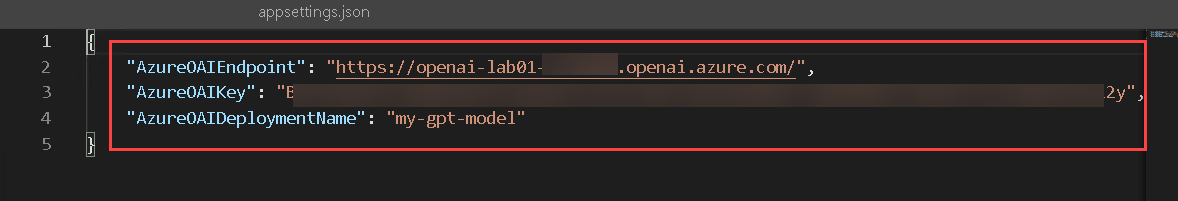
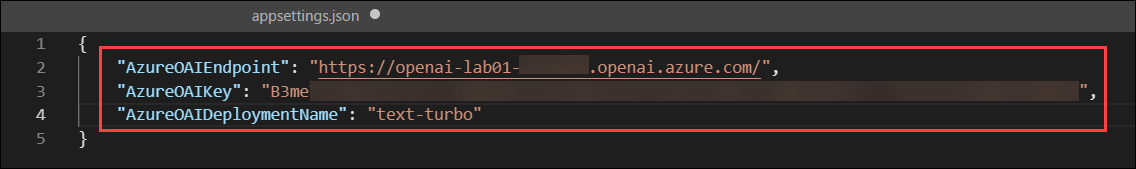
Updates

Changed region(s): [[0.0, 0.0, 1.0, 0.7988], [0.0, 0.9763, 1.0, 1.0], [0.0308, 0.7988, 0.0616, 0.8284]]

diff --git a/Instructions/Labs/guided-lab-02.md b/Instructions/Labs/guided-lab-02.md
@@ -26,11 +26,11 @@ In this task, you'll create an Azure resource in the Azure portal, selecting the
 
    ![](../media/azureai.png)
 
-2. On  **AI Foundary | Azure OpenAI** blade, select **Azure OpenAI(1)** from the left menu, click on **+ Create(2)** and select **Azure OpenAI(3)**
+1. On  **Microsoft Foundary | Azure OpenAI** blade, select **Azure OpenAI (1)** from the left menu, click on **+ Create (2)** and select **Azure OpenAI (3)**
 
    ![](../media/va1.png)
 
-3. Create an **Azure OpenAI** resource using the settings below, then click **Next (6)** three times, leaving all other options at their defaults.
+1. Create an **Azure OpenAI** resource using the settings below, then click **Next (6)** three times, leaving all other options at their defaults.
     
     - Subscription: **Default Subscription (1)**
     
@@ -41,16 +41,30 @@ In this task, you'll create an Azure resource in the Azure portal, selecting the
     - Name: **OpenAI-Lab01-<inject key="DeploymentID" enableCopy="false"></inject> (4)**
     
     - Pricing tier: **Standard S0 (5)**
+
+    - Click **Next** thrice to navigate to the **Review + submit** tab.
   
       ![](../media/clicknext.png)
 
-4. Under the **Review + submit** tab, click on **Create**.
+1. Under the **Review + submit** tab, click on **Create**.
 
       ![](../media/clickcreate.png)
 
-5. Wait for deployment to complete. Click on **Go to resource** to navigate to the deployed Azure OpenAI resource in the Azure portal.
+1. Wait for deployment to complete. Click on **Go to resource** to navigate to the deployed Azure OpenAI resource in the Azure portal.
 
       ![](../media/e1t1p5.png)
+
+1. To capture the Keys and Endpoints values, on **OpenAI-Lab01-<inject key="DeploymentID" enableCopy="false"></inject>** blade:
+
+    - Navigate to **Keys and Endpoint (2)** under **Resource Management (1)**.
+    
+    - Click on **Show Keys (3)**.
+    
+    - Copy **Key 1 (4)** and ensure to paste it in a text editor such as notepad for future reference.
+    
+    - Finally copy the **Endpoint (5)** API URL by clicking on copy to clipboard. Paste it in a text editor such as notepad for later use.
+    
+        ![](../media/e1t1p5a.png "Keys and Endpoints")
 
 <validation step="b6d08e8e-f2a3-4066-a698-2a324f4493dd" />
 
@@ -63,47 +77,41 @@ In this task, you'll create an Azure resource in the Azure portal, selecting the
 
 In this task, you'll deploy a specific AI model instance within your Azure OpenAI resource to integrate advanced language capabilities into your applications.
 
-1. In the Azure OpenAI resource pane, click on **Foundry portal**, which will navigate to **Microsoft Foundry**.
+1. In the Azure OpenAI resource pane, click on **Go to Foundry portal**, which will navigate to **Microsoft Foundry**.
 
     ![](../media/va2.png)
 
-1. Select the **Deployments (1)** from the left pane, click on **+ Deploy model (2)** and choose **Deploy base model (3)**.
+1. Select the **Deployments (1)** from the left pane under **Shared resources**, click on **+ Deploy model (2)** and choose **Deploy base model (3)**.
 
     ![](../media/va3.png)
 
 1. Search for **gpt-4.1-mini (1)** in the search bar, select **gpt-4.1-mini (2)** and click on **Confirm (3)**.
 
-   ![](../media/va4.png) 
+   ![](../media/va4.png)
 
-   >**Note:** If pop-up window **Unlock the full capabilities of Azure Microsoft Foundry with projects** appears, click **Continue with existing setup**
+1. Within the **Deploy gpt-4.1-mini** pop-up interface, enter the following details:
 
-      ![](../media/e1t2p2(1).png)
-   
-1. Within the **Deploy model gpt-4.1-mini** pop-up interface, click on **Customize**.
+    - **Deployment name**: **text-turbo (1)**
 
-   ![](../media/custom4.1.png)
+    - **Deployment type**: **Standard (2)**
 
-1. Within the **Deploy model gpt-4.1-mini** pop-up interface, enter the following details:
+    - Click on **Customize**
 
-      - Deployment name: **text-turbo (1)**
+    - **Model version upgrade policy**: Select **Upgrade once new default version becomes available (3)**
 
-      - Deployment type: **Global Standard (2)**
+    - **Model version**: Choose **2025-04-14 (Default) (4)**
 
-      - Model version: **2025-04-14 (Default) (3)**
+    - **Tokens per Minute Rate Limit**: **10K (5)**
+        >**Note**: If you're unable to slide to 10K, click on the slider thumb and use your keyboard arrows (right/left) to adjust the token rate limit.
 
-      - Tokens per Minute Rate Limit (thousands): **10K (4)**
+    - **Enable dynamic quota**: Ensure dynamic quota is **Enabled (6)**
 
-      - Content filter: **DefaultV2 (5)**
-
-      - Click on **Deploy (6)**
+    - Click on **Deploy (7)**
 
         ![](../media/deploy4.1.png)
-      
-        
+
 1. This will deploy a model that you will be playing around with as you proceed.
 
-    > **Note:** You can ignore any error related to the assignment of roles to view the quota limits.
-   
     > **Note:** Azure OpenAI includes multiple models, each optimized for a different balance of capabilities and performance. In this exercise, you'll use the **gpt-4.1-mini** model, which is a good model for summarizing and generating natural language and code. For more information about the available models in Azure OpenAI, see [Models](https://learn.microsoft.com/azure/cognitive-services/openai/concepts/models) in the Azure OpenAI documentation.
 
 ## Task 3: Set up an application in Cloud Shell
@@ -132,12 +140,17 @@ In this task, you will set up a development environment using Azure Cloud Shell.
 
 5. Within the **Create storage account** page, enter the following details:
 
-    - Subscription: Choose the Default subscription **(1)**.
+    - Subscription: Choose the **Default subscription (1)**.
+
     - Resource group: Select **openai-<inject key="DeploymentID" enableCopy="false"></inject> (2)**
+    
     - Region: **<inject key="Region" enableCopy="false" /> (3)**
+
     - Storage account name: **storage<inject key="DeploymentID" enableCopy="false"></inject> (4)**
-    - File share: Create a new file share named **none** **(5)**
-    - Click **Create** **(6)**
+
+    - File share: Create a new file share named **none (5)**
+
+    - Click **Create (6)**
 
         ![](../media/csacreate.png)
 
@@ -162,7 +175,7 @@ In this task, you will set up a development environment using Azure Cloud Shell.
    cd mslearn-openai/Labfiles/01-app-develop
     ```
 
-    Applications for both C# and Python have been provided, as well as a sample text file you'll use to test the summarization. Both apps feature the same functionality.
+    >**Note**: Applications for both **C#** and **Python** have been provided, as well as a sample text file you'll use to test the summarization. Both apps feature the same functionality.
 
 10. Open the built-in code editor, and observe the text file that you'll be summarizing with your model. Use the following command to open the lab files in the code editor.
 
@@ -185,7 +198,7 @@ In this task, you will configure the application to connect with the Azure OpenA
 
 1. In the code editor, expand the **CSharp** or **Python** folder, depending on your language preference.
 
-1. If you are using the **C#** language, kindly open the **CSharp.csproj** file and replace it with the following code and save the file.
+1. If you are using the **C#** language, kindly open the **CSharp.csproj** file and replace it with the following code and save the file using **Ctrl+S**.
 
    ```
    <Project Sdk="Microsoft.NET.Sdk">
@@ -218,17 +231,17 @@ In this task, you will configure the application to connect with the Azure OpenA
     
     - Python: `.env`
     
-1. Update the configuration values to include the **endpoint** and **key** from the Azure OpenAI resource you created, as well as the model name that you deployed, `my-gpt-model`. Then save the file by right-clicking on the blank space in the file text editor and hit **Save**.
+1. Update the configuration values to include the **endpoint** and **key** from the Azure OpenAI resource you created, as well as the model name that you deployed, `text-turbo` and then save the file by right-clicking on the blank space in the file text editor and hit **Save** or use **Ctrl+S**.
 
     - **C#:**
      
-      ![](../media/nlp26.png)   
+      ![](../media/nlp26.png)
 
     - **Python:**
      
-      ![](../media/nlp27.png) 
+      ![](../media/nlp27.png)
 
-       > **Note:** You can get the Azure OpenAI endpoint and key values from the Azure OpenAI resource's **Key and Endpoint** section under **Resource Management**.
+       > **Note:** You can get the Azure OpenAI endpoint and key values from the Azure OpenAI resource's **Key and Endpoint** section under **Resource Management**. Refer to `Task 1: Step 6`.
 
 1. Navigate back to the Cloudshell and install the necessary packages for your preferred language:
 
@@ -266,7 +279,9 @@ In this task, you will configure the application to connect with the Azure OpenA
     from openai import AsyncAzureOpenAI
     ```
 
-     ![](../media/L2T3S6-py.png)      
+     ![](../media/L2T3S6-py.png)
+
+     Save the files by right-clicking on the blank space in the file text editor and hit **Save** or use **Ctrl+S**.
 
 1.  In the application code for your language, find the comment **Configure the Azure OpenAI client**, and add code to configure the Azure OpenAI client:
 
@@ -294,7 +309,9 @@ In this task, you will configure the application to connect with the Azure OpenA
      ![](../media/L2T3S7-py.png)   
 
       >**Note:** Make sure to indent the code by eliminating any extra white spaces after pasting it into the code editor.
-    
+
+    Save the files by right-clicking on the blank space in the file text editor and hit **Save** or use **Ctrl+S**.
+
 1. In the function that calls the **Azure OpenAI model**, under the comment **Get response from Azure OpenAI**, add the code to format and send the request to the model.
 
     **C#:** Program.cs
@@ -542,7 +559,11 @@ In this task, you will run the application and interact with the Azure OpenAI mo
 
 1. In the interactive terminal pane, ensure the folder context is the folder for your preferred language. Then, enter the following command to run the application.
 
+    ![](../media/csharpdir.png)  
+
     - **C#:** `dotnet run`
+
+    ![](../media/pydir.png) 
     
     - **Python:** `python application.py`
 
@@ -552,7 +573,7 @@ In this task, you will run the application and interact with the Azure OpenAI mo
 
     ![](../media/170725(08).png)
 
-1. For the first iteration, navigate to `System.txt` file **(1)** and then enter the following prompts **(2)**:
+1. For the first iteration, navigate to `System.txt` file **(1)**, enter the following prompts **(2)** and save the file:
 
    **System message:**
    
